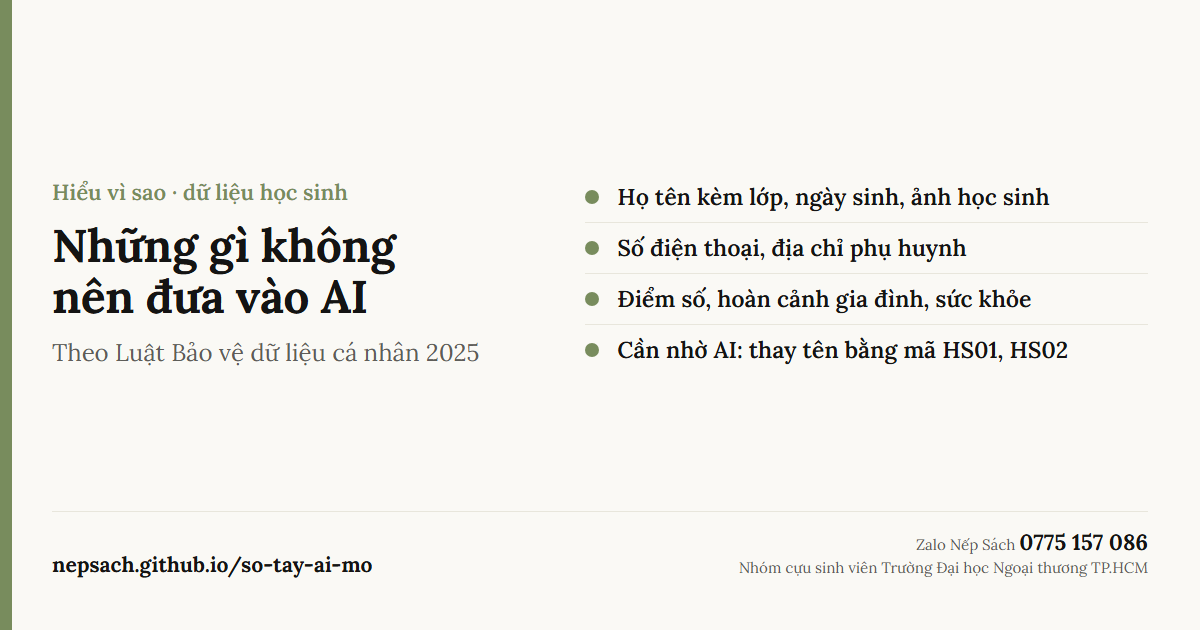
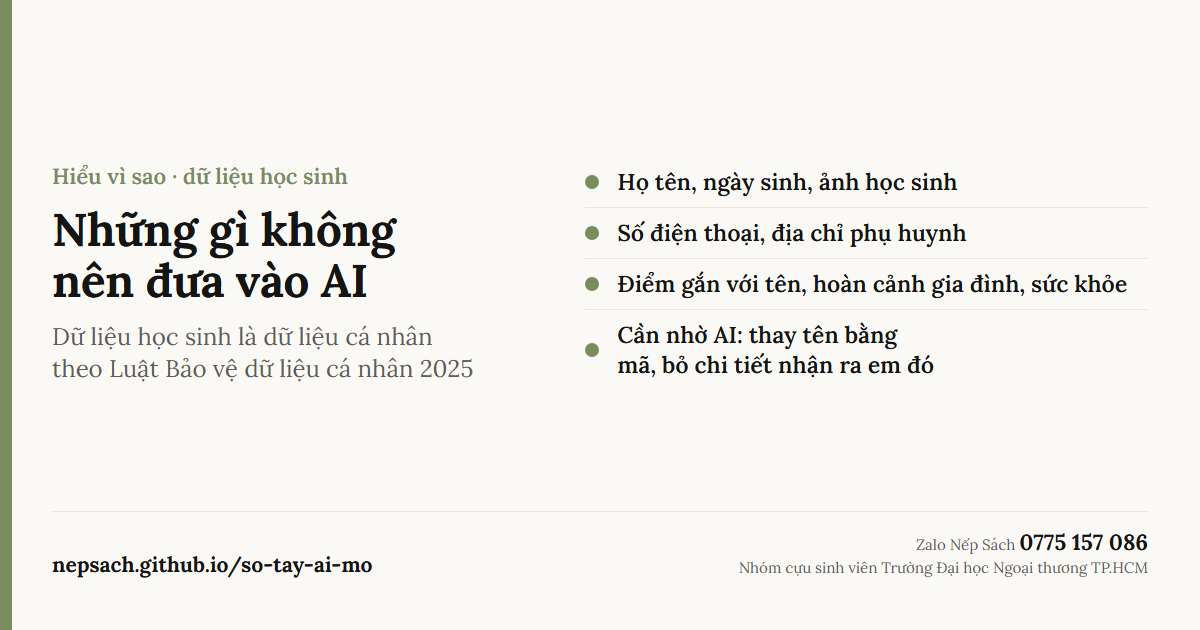
Bài tiết học và bài dữ liệu học sinh: sửa theo rà soát (Công văn 4874, Thông tư 16 Điều 14/19, khử nhận dạng Luật 91 Điều 2 khoản 11, Điều 30, Luật Trẻ em Điều 100)

Changed region(s): [[0.4625, 0.2714, 0.9558, 0.6032], [0.0308, 0.2714, 0.4008, 0.6032]]

diff --git a/src/content/docs/hieu-vi-sao/khong-dua-gi-vao-ai.md b/src/content/docs/hieu-vi-sao/khong-dua-gi-vao-ai.md
@@ -1,6 +1,6 @@
 ---
 title: Những gì không nên đưa vào AI, và luật nói gì
-description: Tên kèm lớp, ảnh học sinh, số điện thoại phụ huynh, điểm, hoàn cảnh gia đình, sức khỏe là dữ liệu cá nhân theo Luật Bảo vệ dữ liệu cá nhân 2025. Cần dùng AI thì thay tên bằng mã.
+description: Tên kèm lớp, ảnh học sinh, số điện thoại phụ huynh, điểm, hoàn cảnh gia đình, sức khỏe là dữ liệu cá nhân theo Luật Bảo vệ dữ liệu cá nhân 2025. Cần dùng AI thì thay tên bằng mã và bỏ chi tiết nhận ra em đó.
 head:
   - tag: meta
     attrs: { property: "og:image", content: "https://nepsach.github.io/so-tay-ai-mo/anh/f1-ngang.png" }
@@ -15,30 +15,33 @@ sidebar:
 
 | Không đưa vào AI | Đưa vào được |
 |---|---|
-| Họ tên kèm lớp, ngày sinh, ảnh học sinh | Công văn, kế hoạch công khai |
+| Họ tên học sinh (nhất là kèm lớp, ngày sinh), ảnh học sinh | Công văn, kế hoạch công khai |
 | Số điện thoại, địa chỉ phụ huynh | Danh mục sách của thư viện |
-| Điểm số, nhận xét gắn với tên | Bảng đã thay tên bằng mã (HS01, HS02…) |
+| Điểm số, nhận xét gắn với tên | Bảng đã thay tên bằng mã (HS01, HS02…) và bỏ chi tiết nhận ra em đó |
 | Hoàn cảnh gia đình, sức khỏe, dân tộc | Câu hỏi, đề bài không có tên học sinh |
 | Số định danh, mật khẩu tài khoản | Mô tả cột của bảng (không kèm dữ liệu) |
 
 ## Cách làm khi cần nhờ AI
 
-1. **Thay tên bằng mã** trước khi dán. Theo Luật Bảo vệ dữ liệu cá nhân, dữ liệu đã khử nhận dạng không còn là dữ liệu cá nhân.
-2. **Bỏ các chi tiết** giúp nhận ra em đó: lớp kèm hoàn cảnh, bệnh, tên bố mẹ.
+1. **Thay tên bằng mã** trước khi dán. Bảng đối chiếu mã với tên giữ riêng trên máy mình, không đưa vào AI.
+2. **Bỏ các chi tiết** giúp nhận ra em đó: lớp kèm hoàn cảnh, bệnh, tên bố mẹ. Chỉ khi dữ liệu không còn giúp xác định được học sinh mới là đã khử nhận dạng.
 3. **Tắt chia sẻ dữ liệu** của ứng dụng (ChatGPT: tắt «Cải thiện mô hình cho mọi người»), làm theo quy định dùng AI của trường.
 
 <details>
-<summary>Xem thêm: luật và văn bản của Bộ nói gì (trích nguyên văn)</summary>
+<summary>Xem thêm: luật và văn bản của Bộ nói gì (tóm tắt, có trích nguyên văn)</summary>
 
 - **Luật Bảo vệ dữ liệu cá nhân số 91/2025/QH15** (hiệu lực 01/01/2026), Điều 2 khoản 1: dữ liệu cá nhân là dữ liệu «xác định hoặc giúp xác định một con người cụ thể»; «Dữ liệu cá nhân sau khi khử nhận dạng không còn là dữ liệu cá nhân».
 - **Nghị định 356/2025/NĐ-CP**: Điều 3 xếp họ tên, ngày sinh, «Hình ảnh của cá nhân», số điện thoại, quan hệ gia đình vào dữ liệu cơ bản; Điều 4 xếp dân tộc, đời sống riêng tư, bí mật gia đình, tình trạng sức khỏe vào dữ liệu nhạy cảm. Nghị định 13/2023/NĐ-CP đã hết hiệu lực từ 01/01/2026.
-- **Luật 91/2025, Điều 24 khoản 2**: xử lý dữ liệu của trẻ em nhằm công bố, tiết lộ đời sống riêng tư, bí mật cá nhân của trẻ từ đủ 07 tuổi phải có sự đồng ý của trẻ và người đại diện theo pháp luật.
+- **Luật 91/2025, Điều 2 khoản 11**: khử nhận dạng là «quá trình thay đổi hoặc xóa thông tin để tạo ra dữ liệu mới không thể xác định hoặc không thể giúp xác định được một con người cụ thể». Thay tên bằng mã mà vẫn còn lớp, hoàn cảnh, hoặc mình còn giữ bảng mã–tên thì chưa phải khử nhận dạng.
+- **Luật 91/2025, Điều 30 khoản 1**: dữ liệu cá nhân trong môi trường trí tuệ nhân tạo «phải được xử lý đúng mục đích và giới hạn trong phạm vi cần thiết».
+- **Luật 91/2025, Điều 24 khoản 2**: «Việc xử lý dữ liệu cá nhân của trẻ em nhằm công bố, tiết lộ thông tin về đời sống riêng tư, bí mật cá nhân của trẻ em từ đủ 07 tuổi trở lên thì phải có sự đồng ý của trẻ em và người đại diện theo pháp luật.» Điều này áp dụng khi công bố, đăng tải (đăng ảnh, đăng bài).
+- **Luật Trẻ em (văn bản hợp nhất 108/VBHN-VPQH), Điều 100 khoản 1 điểm c**: giáo viên có trách nhiệm bảo đảm quyền bí mật đời sống riêng tư của trẻ em.
 - **Bộ luật Dân sự 2015, Điều 32**: «Việc sử dụng hình ảnh của cá nhân phải được người đó đồng ý.»
 - **Công văn 6020/BGDĐT-KHCNTT (8/9/2026)**: cơ sở giáo dục ban hành quy định dùng AI, nêu rõ trường hợp được dùng, hạn chế, không được dùng và «yêu cầu về an toàn dữ liệu»; kết quả AI «phải được kiểm chứng».
-- **Công văn 5588/BGDĐT-GDPT (19/8/2026)**: không yêu cầu học sinh dùng tài khoản cá nhân hoặc công cụ chưa được rà soát.
+- **Công văn 5588/BGDĐT-GDPT (19/8/2026)**: «không yêu cầu học sinh phải sử dụng tài khoản cá nhân hoặc công cụ chưa được rà soát» (mục I.2); nhà trường «Ban hành quy tắc sử dụng AI trong nhà trường; rà soát công cụ, tài khoản và dữ liệu trước khi sử dụng» (mục III.3).
 
 </details>
 
 :::note[Nguồn, ngày tra]
-Bản gốc: Công báo (Luật 91/2025/QH15, Nghị định 356/2025/NĐ-CP), bản ký Bộ luật Dân sự 2015, bản đăng trên moet.gov.vn (Công văn 6020), bản chụp Công văn 5588. Tra ngày 4/10/2026. Bài là hướng dẫn tham khảo, không thay ý kiến pháp lý.
+Bản gốc: Công báo (Luật 91/2025/QH15, Nghị định 356/2025/NĐ-CP), Luật Trẻ em (văn bản hợp nhất 108/VBHN-VPQH), bản ký Bộ luật Dân sự 2015, bản đăng trên moet.gov.vn (Công văn 6020), bản chụp Công văn 5588. Tra ngày 4/10/2026. Bài là hướng dẫn tham khảo, không thay ý kiến pháp lý.
 :::

diff --git a/src/content/docs/cach-lam/tiet-hoc-ai-noi-minh-kiem.md b/src/content/docs/cach-lam/tiet-hoc-ai-noi-minh-kiem.md
@@ -1,6 +1,6 @@
 ---
 title: "Tiết học «AI nói, mình kiểm»: dạy học sinh kiểm chứng thông tin AI đưa ra"
-description: Hoạt động 35 phút ở thư viện. AI gợi ý sách, học sinh tự kiểm từng cuốn theo 4 bước SIFT. Học sinh không cần tài khoản AI.
+description: Hoạt động 35 phút tại thư viện. AI gợi ý sách, học sinh tự kiểm từng cuốn theo 4 bước SIFT. Học sinh không cần tài khoản AI.
 head:
   - tag: meta
     attrs: { property: "og:image", content: "https://nepsach.github.io/so-tay-ai-mo/anh/b1-ngang.png" }
@@ -13,13 +13,13 @@ sidebar:
 
 **AI hay đưa ra tên sách nghe rất thật. Tiết này cho học sinh tự kiểm từng cuốn bằng kho sách của thư viện, và học được thói quen kiểm chứng mọi điều AI nói.**
 
-Hợp với học sinh từ lớp 5, cả THCS. Học sinh **không cần tài khoản AI**: thầy cô chạy AI trước trên máy của mình, đúng tinh thần Công văn 5588/BGDĐT-GDPT (không yêu cầu học sinh dùng tài khoản cá nhân).
+Hợp với học sinh từ lớp 5, cả THCS (ở THCS còn 10 phút cho các nhóm trình bày thêm). Học sinh **không cần tài khoản AI**: giáo viên chạy AI trước trên máy của mình, bằng công cụ trường đã rà soát, đúng tinh thần Công văn 5588/BGDĐT-GDPT (không yêu cầu học sinh dùng tài khoản cá nhân).
 
 ## Chuẩn bị (10 phút, trước tiết)
 
 Nhờ AI một câu như «Gợi ý 6 cuốn sách thiếu nhi Việt Nam về biển đảo, ghi tác giả và nhà xuất bản», in hoặc chiếu câu trả lời. Chuẩn bị danh mục sách của thư viện và máy có mạng để tra trang nhà xuất bản.
 
-## Tiến trình 35 phút: 4 bước kiểm (SIFT)
+## Hoạt động 35 phút: 4 bước kiểm (SIFT)
 
 1. **Dừng lại** (5 phút): chiếu câu trả lời của AI. Hỏi: «Mình có biết các cuốn này có thật không?»
 2. **Xem ai nói** (5 phút): AI không phải nhà xuất bản, không phải thư viện. AI viết câu nghe hợp lý, không chắc đúng.
@@ -36,13 +36,13 @@ Nhờ AI một câu như «Gợi ý 6 cuốn sách thiếu nhi Việt Nam về b
 <details>
 <summary>Xem thêm: phân công, gắn với giáo dục AI năm học này</summary>
 
-- Ai chủ trì tiết học tại thư viện do Hiệu trưởng phân công theo hướng dẫn của Sở; thủ thư phối hợp với giáo viên (Công văn 4874/BGDĐT-NGCBQLGD).
-- Từ năm học 2026–2027, nội dung giáo dục AI cốt lõi là 12 tiết mỗi lớp mỗi năm (Quyết định 2422/QĐ-BGDĐT, Công văn 5588/BGDĐT-GDPT); hoạt động này có thể là một phần trong đó khi trường lên kế hoạch.
-- SIFT là phương pháp kiểm chứng thông tin của Mike Caulfield, được nhiều thư viện đại học trên thế giới dạy.
+- Tiết học tại thư viện do giáo viên xây dựng nội dung và tổ chức; người làm công tác thư viện chuẩn bị kho sách, danh mục và phối hợp (Thông tư 16/2022/TT-BGDĐT, Điều 14 khoản 1 điểm b với tiểu học, Điều 19 khoản 1 điểm b với trung học). Viên chức thư viện không trực tiếp giảng dạy (Công văn 4874/BGDĐT-NGCBQLGD).
+- Từ năm học 2026–2027, nội dung giáo dục AI cốt lõi là 12 tiết mỗi lớp mỗi năm (Quyết định 2422/QĐ-BGDĐT, Công văn 5588/BGDĐT-GDPT); Công văn 5588 nêu hình thức lồng ghép để học sinh «biết sử dụng, phân tích, kiểm chứng kết quả do AI tạo ra». Hoạt động này có tính vào 12 tiết hay không do trường quyết định trong kế hoạch giáo dục AI.
+- SIFT là phương pháp kiểm chứng thông tin của Mike Caulfield (Dừng lại, Xem ai nói, Tìm nguồn khác, Lần về gốc).
 - Đổi chủ đề theo tháng: thầy cô, Bác Hồ, Ngày Sách 21/4. Kết quả nhóm có thể làm bảng tin «Sách thật, sách AI bịa».
 
 </details>
 
 :::note[Nguồn, ngày tra]
-SIFT (Mike Caulfield) theo hướng dẫn của các thư viện đại học; Công văn 5588/BGDĐT-GDPT (bản chụp có dấu), Quyết định 2422/QĐ-BGDĐT, Công văn 4874/BGDĐT-NGCBQLGD. Tra ngày 4/10/2026.
+SIFT (Mike Caulfield) theo hướng dẫn của các thư viện đại học; Công văn 5588/BGDĐT-GDPT (bản chụp có dấu), Quyết định 2422/QĐ-BGDĐT, Công văn 4874/BGDĐT-NGCBQLGD, Thông tư 16/2022/TT-BGDĐT. Tra ngày 4/10/2026.
 :::
